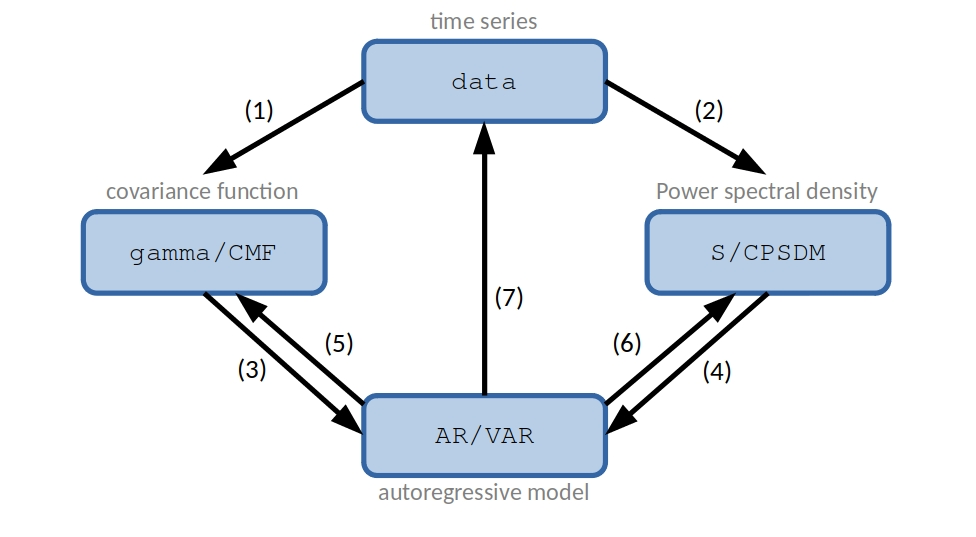
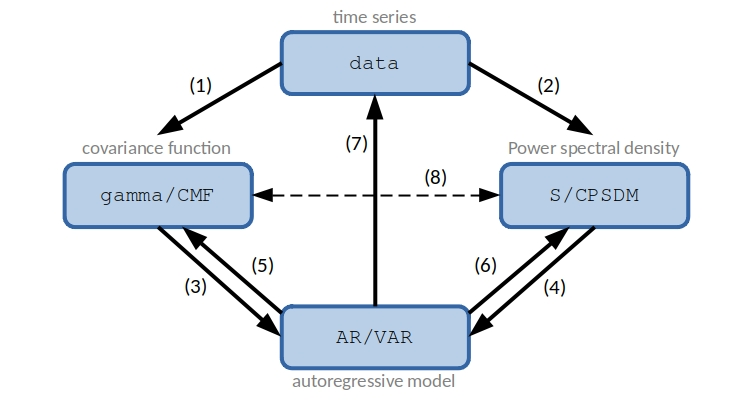
Wiener–Khinchin theorem

diff --git a/gamma/get_gamma_S.m b/gamma/get_gamma_S.m
@@ -1,0 +1,113 @@
+function [gamma_fun] = get_gamma_S (S, gamma_fun)
+
+
+%% WORK IN PROGRESSg
+
+
+%% Description of the function
+% 
+% This function provides the a gamma_fun from the one-sided PSD, just by applying the iDTFT.
+% The iDTFT is implemented with symbolic integration, rather than numeric trapezoid.
+% 
+%
+%% Inputs:
+%           S:  An object (structure) class 'S'
+%               The following fields need to be defined:
+%                   .ind_var
+%                   .sides  = '1S'
+%					.x_parameters.x_max
+%					.x_values
+%                   .y_values
+%
+%			gamma_fun:  An object (structure) class 'gamma'
+%               		The following fields need to be defined:
+%                       	.x_parameters.M
+% 
+% 
+%% Outputs:
+%			gamma_fun:  An object (structure) class 'gamma'
+%               		The following fields are added to the object:
+%                       	.ind_var
+%                       	.delta_x
+%							.xlag_values
+%							.y_values
+%
+%
+
+
+
+%% Checks
+
+% S is 1-sided
+
+if strcmp(S.sides,'2S')    
+    warning('The input S was 2-sided, but this function requires 1-sided S.\nChanging from 2-sided to 1-sided') 
+	S = fun_S_1S_from_S_2S(S);
+end
+
+% gamma_ind_var from S_ind_var
+if strcmp(S.ind_var,'f')
+    gamma_fun = fun_append_gamma(gamma_fun,'ind_var','t');
+else
+    error('Operation still not supported for S.ind_var requested')
+end
+
+
+% S_2S is actually the one required for computations
+[S_2S] = fun_S_2S_from_S_1S(S);
+
+
+%% Unwrap relevant variables
+
+x_max     		= S_2S.x_parameters.x_max;
+S_2S_x_values	= S_2S.x_values;
+S_2S_y_values  	= S_2S.y_values;
+M				= gamma_fun.x_parameters.M;
+
+
+% delta_x from x_max
+delta_x = 1/(2*x_max);
+
+
+if ~ismember(x_max,S_2S_x_values)
+    warning('Attention, you introduced an spectrum not evaluated at f_max. This could lead to bad estimations on the integrals..')
+end
+
+
+
+%% Code
+
+S_2S_fun           	= @(x) interp1(S_2S_x_values,S_2S_y_values,x);
+exponential_fun 	= @(x,M) exp(1i*2*pi*x*(-M:M)*delta_x); % <- THIS IS AN ARRAY OF FUNCTIONS!!
+                                                        	% <- BECAUSE OF (-M:M)
+                                                        	% TO PERFORM THE INTEGRAL, YOU
+                                                        	% NEED TO ADD 'ArrayValued' TRUE
+
+xlag_values = transpose(-M:M);
+
+%% No need for a loop with the array of functions
+  
+iDTFT_fun = @(x) S_2S_fun(x).*exponential_fun(x,M);
+gamma_fun_values=integral(iDTFT_fun,-x_max,x_max,'ArrayValued',true);
+
+
+
+%% Check that everything went ok
+if max(abs(imag(gamma_fun_values)))>1e-4
+    warning('Attention, gamma_fun with relevant imaginary component were obtained.. remoiving imaginary part..')
+end
+
+gamma_fun_values = real(gamma_fun_values);
+
+
+
+%% Assign outputs
+
+gamma_fun = fun_append_gamma(gamma_fun,...
+							 'delta_x',delta_x,...
+                             'xlag_values',xlag_values,...
+                             'y_values',gamma_fun_values);
+
+                    
+
+

diff --git a/S/get_S_gamma.m b/S/get_S_gamma.m
@@ -3,7 +3,8 @@ function [S] = get_S_gamma(gamma_fun, S)
 
 %% Description of the function
 % 
-% This function provides the one-sided PSD of a gamma_fun, just by applying the DTFT.
+% This function provides the one-sided PSD of a gamma_fun, just by applying the DTFT 
+% and changing from 2-sided to 1-sided.
 % 
 %
 %% Inputs:

diff --git a/README.md b/README.md
@@ -46,7 +46,8 @@ In the figure, each row corresponds to the process of converting an object from 
 - **(2): Spectral estimation from data series**. Several methods based on correlogram and periodogram approaches are implemented. You will find specific functionalities that are typically absent in other software packages. For instance, you can define precise frequency values for spectrum evaluation, enabling enhanced spectral resolution in plots with frequency-log scales.
 - **(3) and (4): Estimation of an autoregressive model from either a covariance function or a power spectral density**. The estimation of an AR/VAR model from a covariance function includes the possibility of restricted VAR models, where only specific lags are considered in the model scheme. Restricted AR models are particulary useful for processes with a slow decay of their covariance function. The estimation of an AR/VAR model from the PSD is less common in the literature, but it becomes very handy when modelling processes that are described in the frequency domain.
 - **(5) and (6): Obtention of the theoretical covariance function and power spectral density of an autoregressive model**.
-- **(7) Data synthesis from an autoregressive model**. This allows you to generate synthetic time or space series with prescribed statistical features (those of the employed AR/VAR model).
+- **(7): Data synthesis from an autoregressive model**. This allows you to generate synthetic time or space series with prescribed statistical features (those of the employed AR/VAR model).
+- **(8):** Applications of the **Wiener-Khinchin theorem**.
 
 
 
